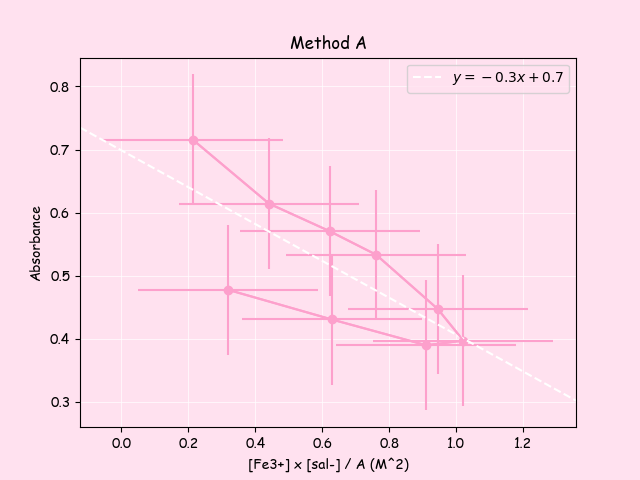
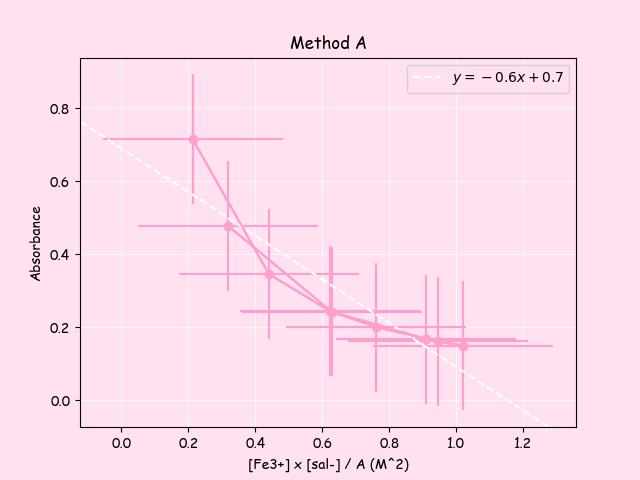
hehe

diff --git a/part2.py b/part2.py
@@ -256,21 +256,14 @@ plt.savefig('part2_q3.png')
 #q4 find stability constant, gibbs free energy for formation, and extinction coefficient using methods A and B
 #a (varying ratio) THIS IS FUCKED
 i = 0
-while i < len(x_data):
-    y4a = x_data[i] * (1.3 - x_data[i]) / job_abs[i]
-    if y4a == 0:
-        i += 1
-        continue
-    x4a = job_abs[i]
-    x4a = np.array([x4a])
-    y4a = np.array([y4a])
-    if i == 1:
-        yaxis_4a = y4a
-        xaxis_4a = x4a
-    else:
-        yaxis_4a = np.append(yaxis_4a, y4a, axis = 0)
-        xaxis_4a = np.append(xaxis_4a, x4a, axis = 0)
-
+conc_data_4a = x_data[1:-1]
+x_data_4a = job_abs[1:-1]
+print(conc_data_4a)
+yaxis_4a = []
+xaxis_4a = x_data_4a
+for concentration in conc_data_4a:
+    y4a = np.array([conc_data_4a[0] * (1.3 - conc_data_4a[0]) / x_data_4a[i]])
+    yaxis_4a = np.append(yaxis_4a, y4a, axis = 0)
     i += 1
 #plot
 plt.rcParams["font.family"] = "Comic Sans MS"
